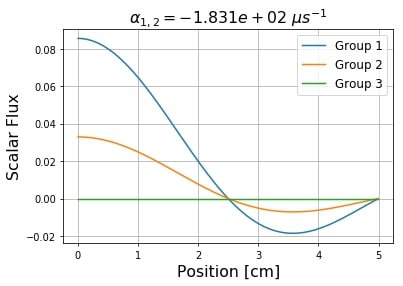
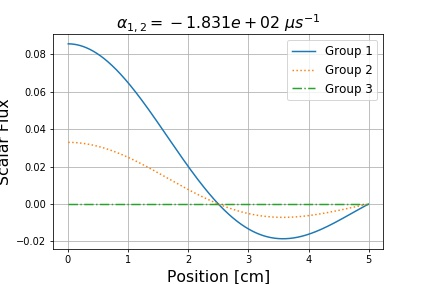
Changes to figures.
Multiline figures now use varying linetypes to distinguish without
needing color.

Changed region(s): [[0.0, 0.0282, 0.9826, 1.0]]

diff --git a/dmd_neutronics_formatted.tex b/dmd_neutronics_formatted.tex
@@ -530,7 +530,7 @@ Because singular values are related to the eigenvalues matrix it decomposes, the
 The singular value spectrum of  $\bm{X}^{N-1}_1$ is presented below in \FI{sv-spec}, and shows that this condition is met.  
 
 \bfg[h] \centering
-	\includegraphics[scale=0.5]{figures/singularValueSpectrum_flux.jpg}
+	\includegraphics[scale=0.5]{figures/flux_singularValueSpectrum.jpg}
 	\caption{Singlar value spectrum of numerical snapshot series}
 	\LFI{sv-spec}
 \efg
@@ -543,8 +543,8 @@ This is code verification is demonstrated in \FI{recovery}.
 \bfg[h] \centering
 	$
 	\begin{array}{cc}
-		\includegraphics[scale=0.5]{figures/cutoffStudy_flux.jpg} &
-		\includegraphics[scale=0.5]{figures/rankStudy_flux.jpg}
+		\includegraphics[scale=0.5]{figures/flux_cutoffStudy.jpg} &
+		\includegraphics[scale=0.5]{figures/flux_rankStudy.jpg}
 	\end{array}
 	$
 	\caption{DMD solution recovery study}
@@ -560,11 +560,11 @@ This plot qualitatively shows both the accuracy of the DMD solution throughout t
 \bfg[t] \centering
 	$
 	\begin{array}{cc}
-		\includegraphics[scale=0.45]{figures/groupFlux_t3ns.jpg} &
-		\includegraphics[scale=0.45]{figures/groupFlux_t5ns.jpg} \\
+		\includegraphics[scale=0.45]{figures/flux_t3ns.jpg} &
+		\includegraphics[scale=0.45]{figures/flux_t5ns.jpg} \\
 	\end{array}
 	$
-	\includegraphics[scale=0.45]{figures/groupFlux_t6ns.jpg}
+	\includegraphics[scale=0.45]{figures/flux_t6ns.jpg}
 	\caption{Scalar group flux at 1/3, 1/2, and 2/3 simulation time}
 	\LFI{flx-plt}
 \efg
@@ -668,7 +668,7 @@ The following will present the results from the application of DMD onto the fiss
 As before, the singular-value spectrum should be the first check to determine whether a low-rank structure exists within a given data-set.  
 This is shown in \FI{sv-fis}.
 \bfg[!htb] \centering
-	\includegraphics[scale=0.5]{figures/singularValueSpectrum_fis.jpg}
+	\includegraphics[scale=0.5]{figures/fis_singularValueSpectrum.jpg}
 	\caption{Singular value spectrum for the fission rate}
 	\LFI{sv-fis}
 \efg
@@ -678,8 +678,8 @@ This is shown in \FI{conv-fis}, and shows that DMD can decompose the fission rat
 \bfg[!htb] \centering
 	$
 	\begin{array}{c c}
-		\includegraphics[scale=0.5]{figures/cutoffStudy_fis.jpg}
-		\includegraphics[scale=0.5]{figures/rankStudy_fis.jpg}
+		\includegraphics[scale=0.5]{figures/fis_cutoffStudy.jpg}
+		\includegraphics[scale=0.5]{figures/fis_rankStudy.jpg}
 	\end{array}
 	$
 	\caption{Fission rate DMD convergence}
@@ -691,24 +691,24 @@ This is shown in \FI{fis-ex}.
 \bfg[!htb] \centering
 	$
 	\begin{array}{c c}
-		\includegraphics[scale=0.5]{figures/fissionRate_t3ns.jpg}
-		\includegraphics[scale=0.5]{figures/fissionRate_t5ns.jpg}
+		\includegraphics[scale=0.5]{figures/fis_t3ns.jpg}
+		\includegraphics[scale=0.5]{figures/fis_t5ns.jpg}
 	\end{array}
 	$
-	\includegraphics[scale=0.5]{figures/fissionRate_t6ns.jpg}
+	\includegraphics[scale=0.5]{figures/fis_t6ns.jpg}
 	\caption{Fission rate at 1/3, 1/2. and 2/3 simulation time}
 	\LFI{fis-ex}
 \efg
 
 The interpolative capabilities are explored in \FI{interp-fis}, and analogous results are obtained.
 \bfg[!htb] \centering
-	\includegraphics[scale=0.5]{figures/fission_interp_error.jpg}
+	\includegraphics[scale=0.5]{figures/fis_interp_error.jpg}
 	\caption{Fission rate DMD interpolation error}
 	\LFI{interp-fis}
 \efg
 Lastly, the extrapolative capabilities are explored in \FI{extrap-fis}. 
 \bfg[t] \centering
-	\includegraphics[scale=0.5]{figures/fission_extrap_error.jpg}
+	\includegraphics[scale=0.5]{figures/fis_extrap_error.jpg}
 	\caption{Fission rate DMD extapolation error}
 	\LFI{extrap-fis}
 \efg
